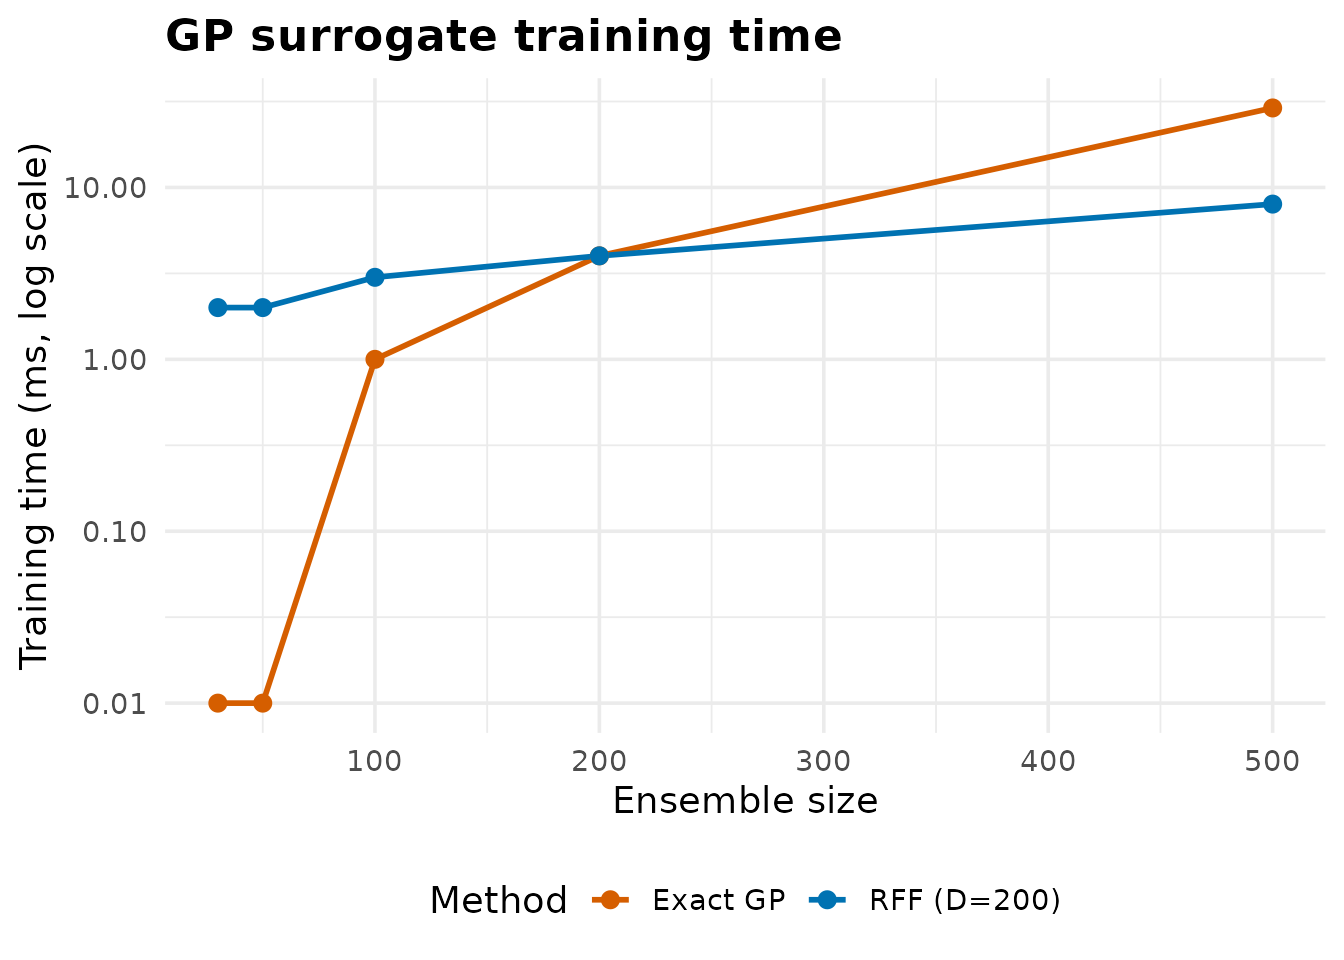
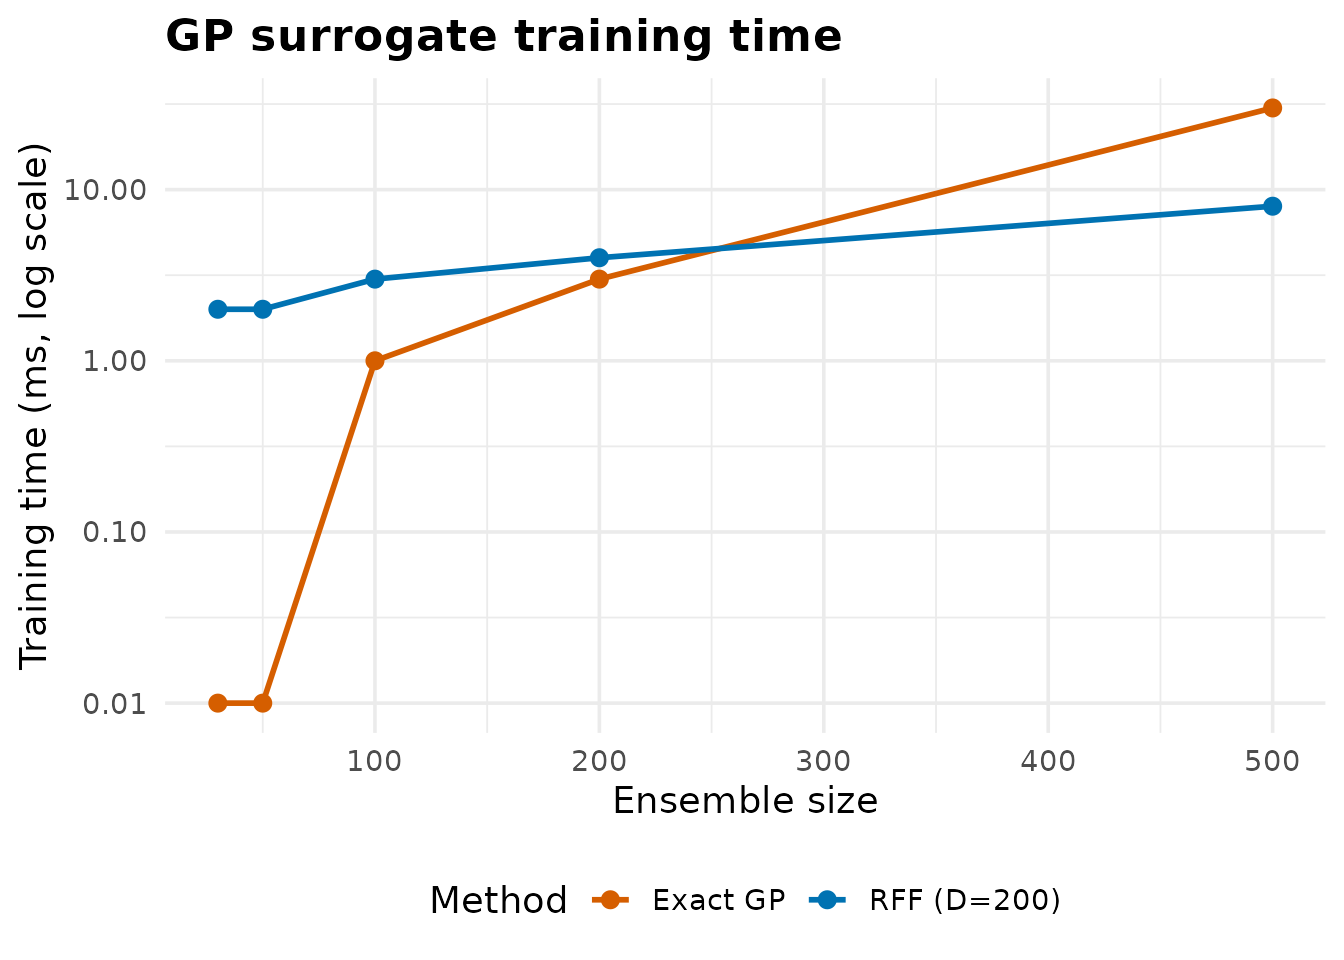
Deploying to gh-pages from @ max578/PESTO@889061e6a9eb46d5339123220b443a38a5015e6b 🚀

diff --git a/articles/getting-started.html b/articles/getting-started.html
@@ -285,8 +285,8 @@ the computational heart of the package:</p>
 <span>  <span class="fu"><a href="https://rdrr.io/r/base/print.html" class="external-link">print</a></span><span class="op">(</span><span class="va">bench</span><span class="op">)</span></span>
 <span><span class="op">}</span></span>
 <span><span class="co">#&gt; Unit: microseconds</span></span>
-<span><span class="co">#&gt;       expr     min      lq     mean   median       uq   max neval</span></span>
-<span><span class="co">#&gt;  PESTO_cpp 464.769 468.039 479.4543 475.8105 479.7515 714.9   100</span></span></code></pre></div>
+<span><span class="co">#&gt;       expr     min       lq     mean  median       uq     max neval</span></span>
+<span><span class="co">#&gt;  PESTO_cpp 463.918 466.8525 474.5485 473.762 476.6315 583.374   100</span></span></code></pre></div>
 </div>
 <div class="section level2">
 <h2 id="computing-phi-the-objective-function">Computing phi (the objective function)<a class="anchor" aria-label="anchor" href="#computing-phi-the-objective-function"></a>
@@ -366,7 +366,7 @@ speedups:</p>
 <span><span class="fu"><a href="https://rdrr.io/r/base/cat.html" class="external-link">cat</a></span><span class="op">(</span><span class="st">"Method:"</span>, <span class="va">res_auto</span><span class="op">$</span><span class="va">method_used</span>, <span class="st">"\n"</span><span class="op">)</span></span>
 <span><span class="co">#&gt; Method: rsvd (Halko-Martinsson-Tropp)</span></span>
 <span><span class="fu"><a href="https://rdrr.io/r/base/cat.html" class="external-link">cat</a></span><span class="op">(</span><span class="st">"Time:"</span>, <span class="fu"><a href="https://rdrr.io/r/base/Round.html" class="external-link">round</a></span><span class="op">(</span><span class="va">res_auto</span><span class="op">$</span><span class="va">time_ms</span>, <span class="fl">2</span><span class="op">)</span>, <span class="st">"ms\n"</span><span class="op">)</span></span>
-<span><span class="co">#&gt; Time: 18.7 ms</span></span>
+<span><span class="co">#&gt; Time: 18.89 ms</span></span>
 <span><span class="fu"><a href="https://rdrr.io/r/base/cat.html" class="external-link">cat</a></span><span class="op">(</span><span class="st">"Singular values (top 5):"</span>, <span class="fu"><a href="https://rdrr.io/r/base/Round.html" class="external-link">round</a></span><span class="op">(</span><span class="va">res_auto</span><span class="op">$</span><span class="va">d</span><span class="op">[</span><span class="fl">1</span><span class="op">:</span><span class="fl">5</span><span class="op">]</span>, <span class="fl">3</span><span class="op">)</span>, <span class="st">"\n"</span><span class="op">)</span></span>
 <span><span class="co">#&gt; Singular values (top 5): 50.643 50.283 49.956 49.689 49.454</span></span>
 <span></span>
@@ -403,9 +403,9 @@ best backend for a problem size is not known in advance.</p>
 <span><span class="fu"><a href="https://rdrr.io/r/base/cat.html" class="external-link">cat</a></span><span class="op">(</span><span class="st">"SVD method:"</span>, <span class="va">result</span><span class="op">$</span><span class="va">svd_method</span>, <span class="st">"\n"</span><span class="op">)</span></span>
 <span><span class="co">#&gt; SVD method: LAPACK (platform-optimised)</span></span>
 <span><span class="fu"><a href="https://rdrr.io/r/base/cat.html" class="external-link">cat</a></span><span class="op">(</span><span class="st">"SVD time:"</span>, <span class="fu"><a href="https://rdrr.io/r/base/Round.html" class="external-link">round</a></span><span class="op">(</span><span class="va">result</span><span class="op">$</span><span class="va">svd_time_ms</span>, <span class="fl">2</span><span class="op">)</span>, <span class="st">"ms\n"</span><span class="op">)</span></span>
-<span><span class="co">#&gt; SVD time: 2.17 ms</span></span>
+<span><span class="co">#&gt; SVD time: 2.22 ms</span></span>
 <span><span class="fu"><a href="https://rdrr.io/r/base/cat.html" class="external-link">cat</a></span><span class="op">(</span><span class="st">"Total time:"</span>, <span class="fu"><a href="https://rdrr.io/r/base/Round.html" class="external-link">round</a></span><span class="op">(</span><span class="va">result</span><span class="op">$</span><span class="va">total_time_ms</span>, <span class="fl">2</span><span class="op">)</span>, <span class="st">"ms\n"</span><span class="op">)</span></span>
-<span><span class="co">#&gt; Total time: 2.65 ms</span></span>
+<span><span class="co">#&gt; Total time: 2.69 ms</span></span>
 <span><span class="fu"><a href="https://rdrr.io/r/base/cat.html" class="external-link">cat</a></span><span class="op">(</span><span class="st">"Singular values used:"</span>, <span class="va">result</span><span class="op">$</span><span class="va">singular_values_used</span>, <span class="st">"\n"</span><span class="op">)</span></span>
 <span><span class="co">#&gt; Singular values used: 50</span></span></code></pre></div>
 </div>

diff --git a/articles/ensemble-manifest.html b/articles/ensemble-manifest.html
@@ -119,17 +119,17 @@ guarantees, on every run.</p>
 <span>                 apsim_version <span class="op">=</span> <span class="cn">NA_character_</span><span class="op">)</span></span>
 <span><span class="fu"><a href="https://rdrr.io/r/base/print.html" class="external-link">print</a></span><span class="op">(</span><span class="va">m</span><span class="op">)</span></span>
 <span><span class="co">#&gt; &lt;pesto_ensemble_manifest&gt; schema 1.1.0</span></span>
-<span><span class="co">#&gt;   run_id        : ies_callback_20260715_114527_cc514891</span></span>
+<span><span class="co">#&gt;   run_id        : ies_callback_20260715_230222_fe6542df</span></span>
 <span><span class="co">#&gt;   method        : ies_callback  (noptmax=4)</span></span>
 <span><span class="co">#&gt;   ensemble      : 60 realisations x 3 parameters | 6 observations</span></span>
 <span><span class="co">#&gt;   failure rate  : 0.00%</span></span>
 <span><span class="co">#&gt;   pesto version : 0.9.0.9000  apsim: NA</span></span>
-<span><span class="co">#&gt;   timestamp     : 2026-07-15T11:45:27+0000</span></span>
+<span><span class="co">#&gt;   timestamp     : 2026-07-15T23:02:22+0000</span></span>
 <span><span class="co">#&gt;   data hash     : sha256:e7b630ad06429b528fa6a57a4973894eb9bf2709a6a3ffeb01366ede48b78ed6</span></span></code></pre></div>
 <p>Slots are reachable via the standard S7 <code>@</code> accessor:</p>
 <div class="sourceCode" id="cb3"><pre class="downlit sourceCode r">
 <code class="sourceCode R"><span><span class="va">m</span><span class="op">@</span><span class="va">run_id</span></span>
-<span><span class="co">#&gt; [1] "ies_callback_20260715_114527_cc514891"</span></span>
+<span><span class="co">#&gt; [1] "ies_callback_20260715_230222_fe6542df"</span></span>
 <span><span class="va">m</span><span class="op">@</span><span class="va">data_hash</span></span>
 <span><span class="co">#&gt; [1] "sha256:e7b630ad06429b528fa6a57a4973894eb9bf2709a6a3ffeb01366ede48b78ed6"</span></span>
 <span><span class="va">m</span><span class="op">@</span><span class="va">noptmax</span></span>
@@ -168,7 +168,7 @@ otherwise trip on formatter precision loss:</p>
 <code class="sourceCode R"><span><span class="fu"><a href="https://rdrr.io/r/base/cat.html" class="external-link">cat</a></span><span class="op">(</span><span class="fu"><a href="https://rdrr.io/r/base/paste.html" class="external-link">paste</a></span><span class="op">(</span><span class="fu"><a href="https://rdrr.io/r/base/readLines.html" class="external-link">readLines</a></span><span class="op">(</span><span class="fu"><a href="https://rdrr.io/r/base/file.path.html" class="external-link">file.path</a></span><span class="op">(</span><span class="va">dir</span>, <span class="st">"wagga_2026_run01.yaml"</span><span class="op">)</span><span class="op">)</span><span class="op">[</span><span class="fl">1</span><span class="op">:</span><span class="fl">14</span><span class="op">]</span>,</span>
 <span>          collapse <span class="op">=</span> <span class="st">"\n"</span><span class="op">)</span><span class="op">)</span></span>
 <span><span class="co">#&gt; schema_version: 1.1.0</span></span>
-<span><span class="co">#&gt; run_id: ies_callback_20260715_114527_cc514891</span></span>
+<span><span class="co">#&gt; run_id: ies_callback_20260715_230222_fe6542df</span></span>
 <span><span class="co">#&gt; data_hash: sha256:e7b630ad06429b528fa6a57a4973894eb9bf2709a6a3ffeb01366ede48b78ed6</span></span>
 <span><span class="co">#&gt; format: rds</span></span>
 <span><span class="co">#&gt; integrity: verifiable</span></span>

diff --git a/articles/getting-started.md b/articles/getting-started.md
@@ -214,8 +214,8 @@ if (requireNamespace("microbenchmark", quietly = TRUE)) {
   print(bench)
 }
 #> Unit: microseconds
-#>       expr     min      lq     mean   median       uq   max neval
-#>  PESTO_cpp 464.769 468.039 479.4543 475.8105 479.7515 714.9   100
+#>       expr     min       lq     mean  median       uq     max neval
+#>  PESTO_cpp 463.918 466.8525 474.5485 473.762 476.6315 583.374   100
 ```
 
 ## Computing phi (the objective function)
@@ -302,7 +302,7 @@ res_auto <- adaptive_svd(A, k = 20L, method = "auto")
 cat("Method:", res_auto$method_used, "\n")
 #> Method: rsvd (Halko-Martinsson-Tropp)
 cat("Time:", round(res_auto$time_ms, 2), "ms\n")
-#> Time: 18.7 ms
+#> Time: 18.89 ms
 cat("Singular values (top 5):", round(res_auto$d[1:5], 3), "\n")
 #> Singular values (top 5): 50.643 50.283 49.956 49.689 49.454
 
@@ -342,9 +342,9 @@ result <- ensemble_solution_adaptive(
 cat("SVD method:", result$svd_method, "\n")
 #> SVD method: LAPACK (platform-optimised)
 cat("SVD time:", round(result$svd_time_ms, 2), "ms\n")
-#> SVD time: 2.17 ms
+#> SVD time: 2.22 ms
 cat("Total time:", round(result$total_time_ms, 2), "ms\n")
-#> Total time: 2.65 ms
+#> Total time: 2.69 ms
 cat("Singular values used:", result$singular_values_used, "\n")
 #> Singular values used: 50
 ```

diff --git a/articles/ensemble-manifest.md b/articles/ensemble-manifest.md
@@ -54,12 +54,12 @@ m <- as_manifest(fit, seed = 20260516L,
                  apsim_version = NA_character_)
 print(m)
 #> <pesto_ensemble_manifest> schema 1.1.0
-#>   run_id        : ies_callback_20260715_114527_cc514891
+#>   run_id        : ies_callback_20260715_230222_fe6542df
 #>   method        : ies_callback  (noptmax=4)
 #>   ensemble      : 60 realisations x 3 parameters | 6 observations
 #>   failure rate  : 0.00%
 #>   pesto version : 0.9.0.9000  apsim: NA
-#>   timestamp     : 2026-07-15T11:45:27+0000
+#>   timestamp     : 2026-07-15T23:02:22+0000
 #>   data hash     : sha256:e7b630ad06429b528fa6a57a4973894eb9bf2709a6a3ffeb01366ede48b78ed6
 ```
 
@@ -68,7 +68,7 @@ Slots are reachable via the standard S7 `@` accessor:
 ``` r
 
 m@run_id
-#> [1] "ies_callback_20260715_114527_cc514891"
+#> [1] "ies_callback_20260715_230222_fe6542df"
 m@data_hash
 #> [1] "sha256:e7b630ad06429b528fa6a57a4973894eb9bf2709a6a3ffeb01366ede48b78ed6"
 m@noptmax
@@ -117,7 +117,7 @@ A peek at what the YAML actually looks like (truncated):
 cat(paste(readLines(file.path(dir, "wagga_2026_run01.yaml"))[1:14],
           collapse = "\n"))
 #> schema_version: 1.1.0
-#> run_id: ies_callback_20260715_114527_cc514891
+#> run_id: ies_callback_20260715_230222_fe6542df
 #> data_hash: sha256:e7b630ad06429b528fa6a57a4973894eb9bf2709a6a3ffeb01366ede48b78ed6
 #> format: rds
 #> integrity: verifiable